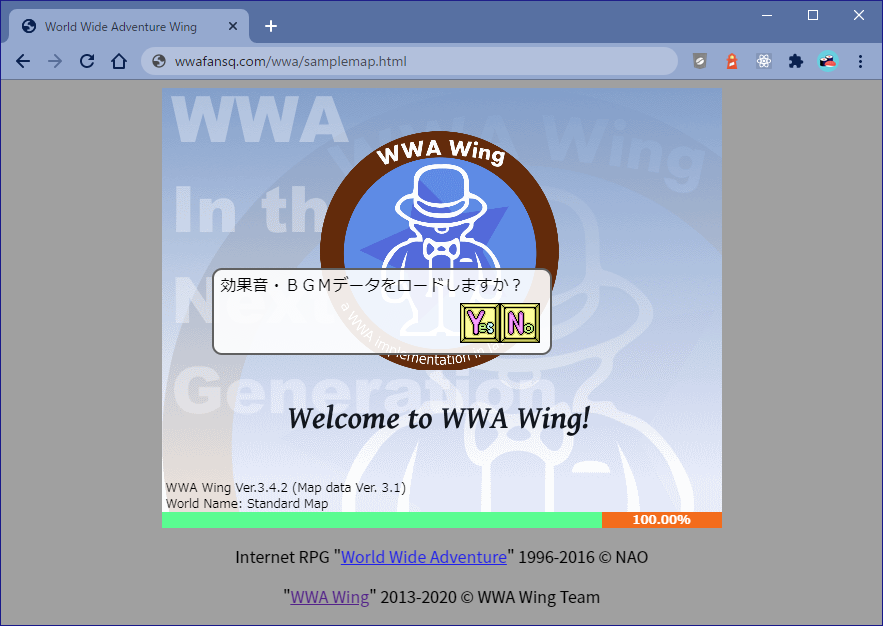
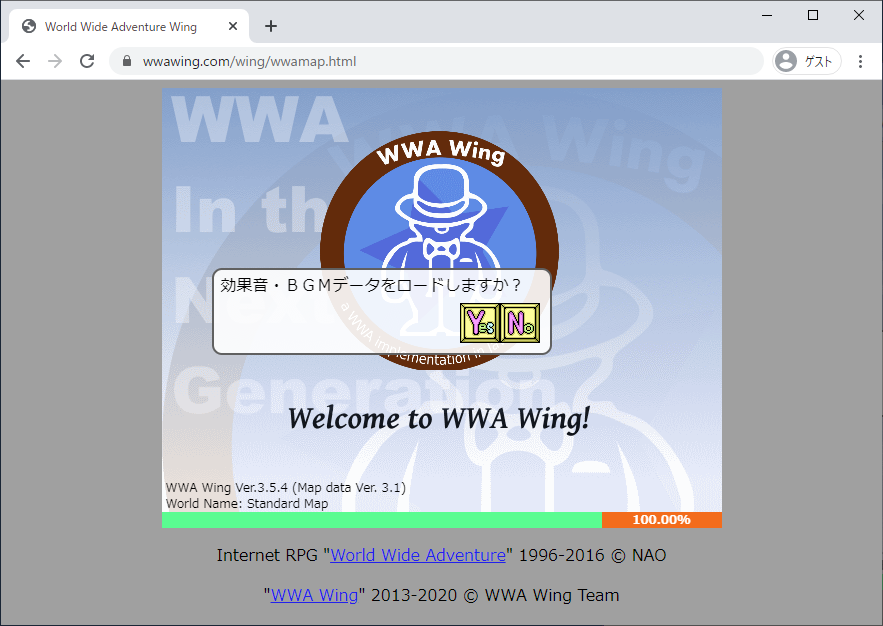
記事の最初のメッセージの表記間違いを修正、画像をWing仕様に差し替え

diff --git a/content/blog/how-to-publish-wwa-game-on-homepage/index.md b/content/blog/how-to-publish-wwa-game-on-homepage/index.md
@@ -2,13 +2,13 @@
 title: "WWAゲームをホームページに公開するには？"
 date: "2020-12-25T00:00:00+09:00"
 category: "コラム"
-description: "こんにちは。 WWA Wing Team です。今回は特集として、 WWA ゲームをホームページに公開するにはどうしたら良いのか方法をまとめました。WWA ゲームを投稿する方法として一番簡単なのは、 PLiCy でゲームを投稿することなんですが、メンテナンスによって PLiCy が一時的に使用できない場合は、代わりの方法も検討しなくてはなりません。そこで、自分でレンタルサーバーを借りてその中に WWA ゲームを設置する方法をお伝えします。"
+description: "こんにちは。 WWA Wing Team です。WWA ゲームをホームページに公開するにはどうしたら良いのか方法をまとめました。WWA ゲームを投稿する方法として一番簡単なのは、 PLiCy でゲームを投稿することなんですが、メンテナンスによって PLiCy が一時的に使用できない場合は、代わりの方法も検討しなくてはなりません。そこで、自分でレンタルサーバーを借りてその中に WWA ゲームを設置する方法をお伝えします。"
 image: wwa_game_on_homepage.png
 ---
 
-- この記事は以前 [WWA FanSquare](https://www.wwafansq.com) のコラムで公開していた記事を WWA Wing ブログに移行したものを再度編集したものになります
+- この記事は以前 [WWA FanSquare](https://www.wwafansq.com) のコラムで公開していた記事を WWA Wing ブログに移行したものになります
 
-こんにちは。 WWA Wing Team です。今回は特集として、 WWA ゲームをホームページに公開するにはどうしたら良いのか方法をまとめました。
+こんにちは。 WWA Wing Team です。WWA ゲームをホームページに公開するにはどうしたら良いのか方法をまとめました。
 
 WWA ゲームを投稿する方法として一番簡単なのは、 [PLiCy](https://plicy.net) でゲームを投稿することなんですが、メンテナンスによって PLiCy が一時的に使用できない場合は、代わりの方法も検討しなくてはなりません。
 
@@ -292,3 +292,4 @@ PLiCy を利用すれば、ファイルを zip ファイルにまとめて投稿
 とは言え、実際にホームページに設置してみて、 WWA の原点を味わってみるのもどうでしょうか？
 
 - 2020年9月3日追記: 誤字の修正とテキストファイルの編集方法、 PLiCy のサービス再開の追記をしました。
+- 2020年12月26日追記: WWA Wing ブログへの移行に合わせて画像とテキストを修正しました。
